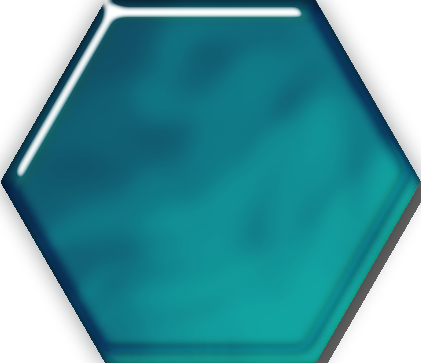
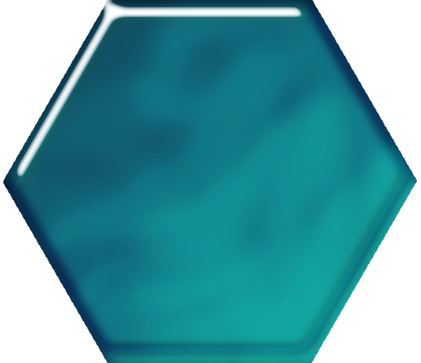
game resize

Changed region(s): [[0.7411, 0.0, 1.0, 1.0], [0.0, 0.0, 0.247, 1.0]]

diff --git a/js/grid.js b/js/grid.js
@@ -31,12 +31,11 @@ function GetDirection(angle, row, col) {
 }
 
 function HexagonGrid(canvasId, radius) {
-    this.radius = radius;
-
-    this.height = Math.sqrt(3) * radius;
-    this.width = 2 * radius;
-    this.side = (3 / 2) * radius;
-    this.canvas = document.getElementById(canvasId);
+    this.radius  = radius;
+    this.height  = Math.sqrt(3) * radius;
+    this.width   = 2 * radius;
+    this.side    = (3 / 2) * radius;
+    this.canvas  = document.getElementById(canvasId);
     this.context = this.canvas.getContext('2d');
 
     this.canvasOriginX = 0;
@@ -48,7 +47,8 @@ function HexagonGrid(canvasId, radius) {
 
 
 HexagonGrid.prototype.drawHexGrid = function (rows, cols, originX, originY, isDebug) {
-    globalRows = rows; globalCols = cols;
+    globalRows = rows; 
+    globalCols = cols;
     this.canvasOriginX = originX;
     this.canvasOriginY = originY;
     

diff --git a/js/init.js b/js/init.js
@@ -4,6 +4,8 @@ $(document).ready(function() {
 
 function init() {
     resize();
+    resize_canvas();
+    
     addEventListeners();
     showMenu();
 
@@ -12,8 +14,11 @@ function init() {
 
     //draw grid
     setTimeout(function() {
-        var hexagonGrid = new HexagonGrid("HexCanvas", 40);
-        hexagonGrid.drawHexGrid(8, 13, 0, 0, false);
+        var win_h = $(document).height();
+        var rows = 9, cols = 13;
+        var hexagonGrid = new HexagonGrid("HexCanvas", win_h/(rows*2));
+
+        hexagonGrid.drawHexGrid(rows, cols, win_h*0.038, win_h*0.038, false);
     }, 500);
 }
 

diff --git a/js/resize.js b/js/resize.js
@@ -17,3 +17,11 @@ function resize() {
     $('.table p').css('font-size', Math.round(containerWidth * .07) + 'px');
     $('.table p').css('line-height', Math.round(containerWidth * .05) + 'px');
 }
+
+function resize_canvas() {
+    canvas = document.getElementById("HexCanvas");
+    if (canvas.width  < window.innerWidth)
+        canvas.width  = window.innerWidth;  
+    if (canvas.height < window.innerHeight)
+        canvas.height = window.innerHeight;
+}

diff --git a/index.html b/index.html
@@ -60,6 +60,6 @@
       <div id="loader" class="screen"></div>
 
       <div id="grid" class="screen">
-         <canvas id="HexCanvas" width="1000" height="700"></canvas>
+         <canvas id="HexCanvas"></canvas>
       </div>
    </body>
